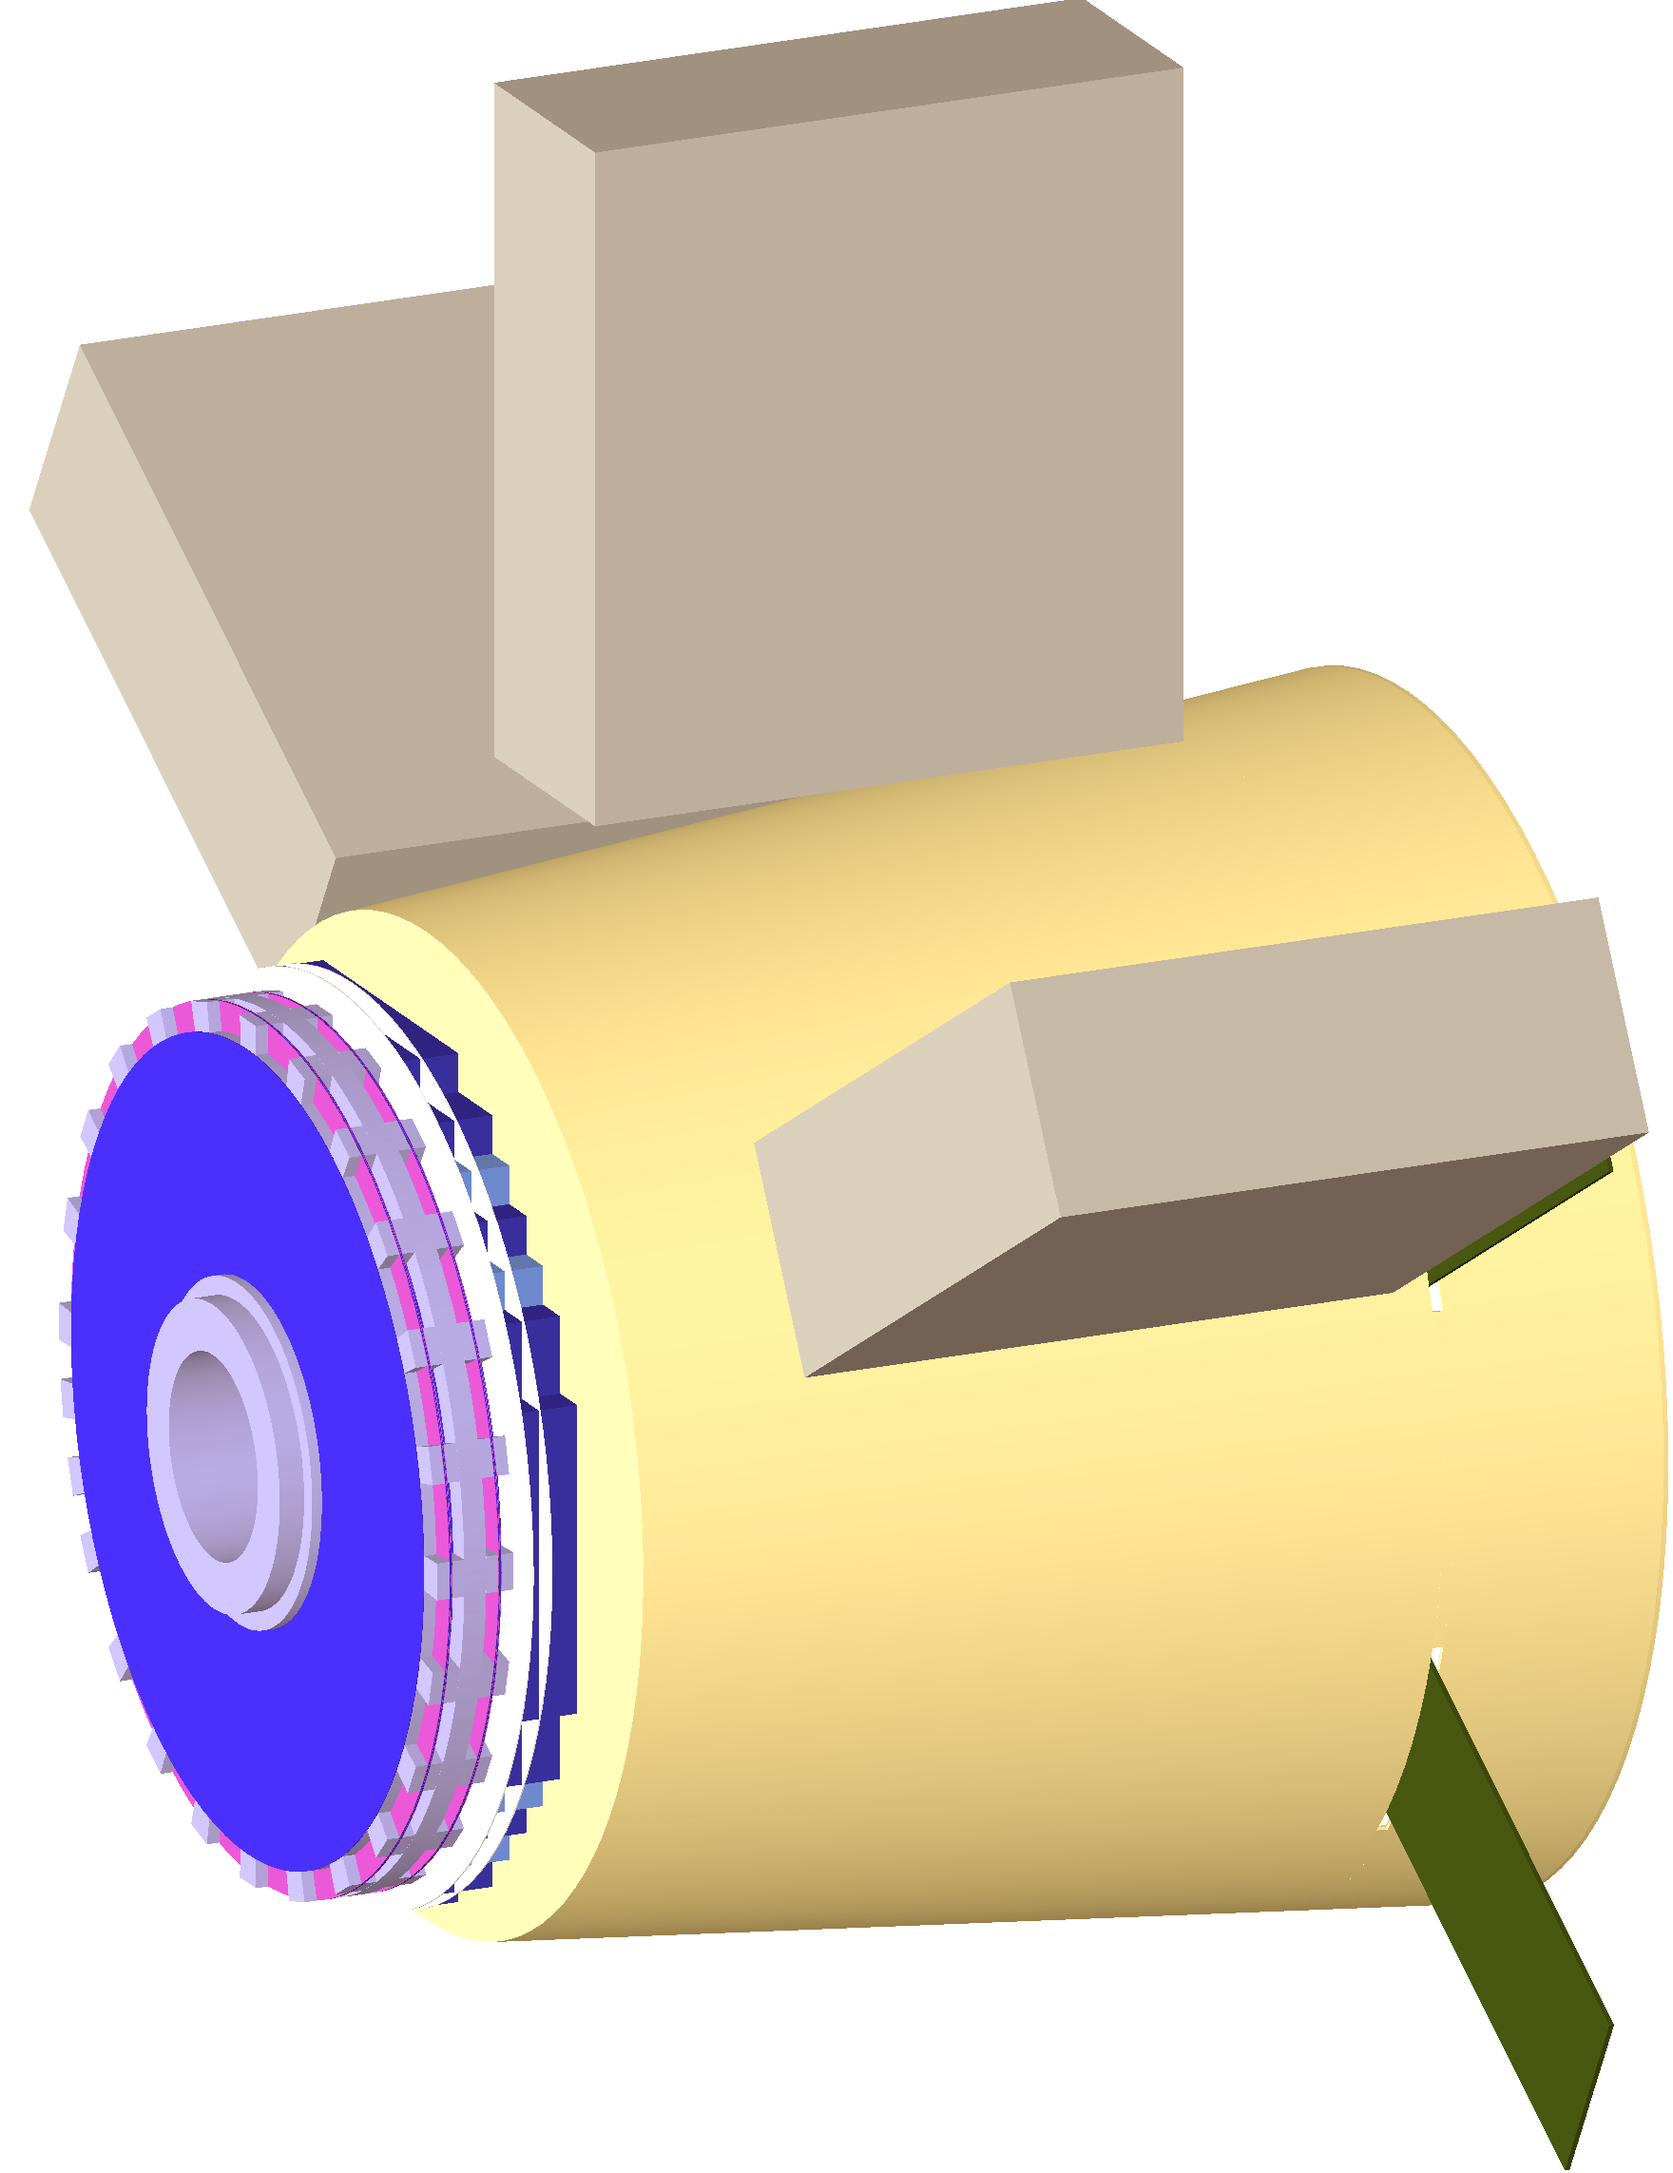
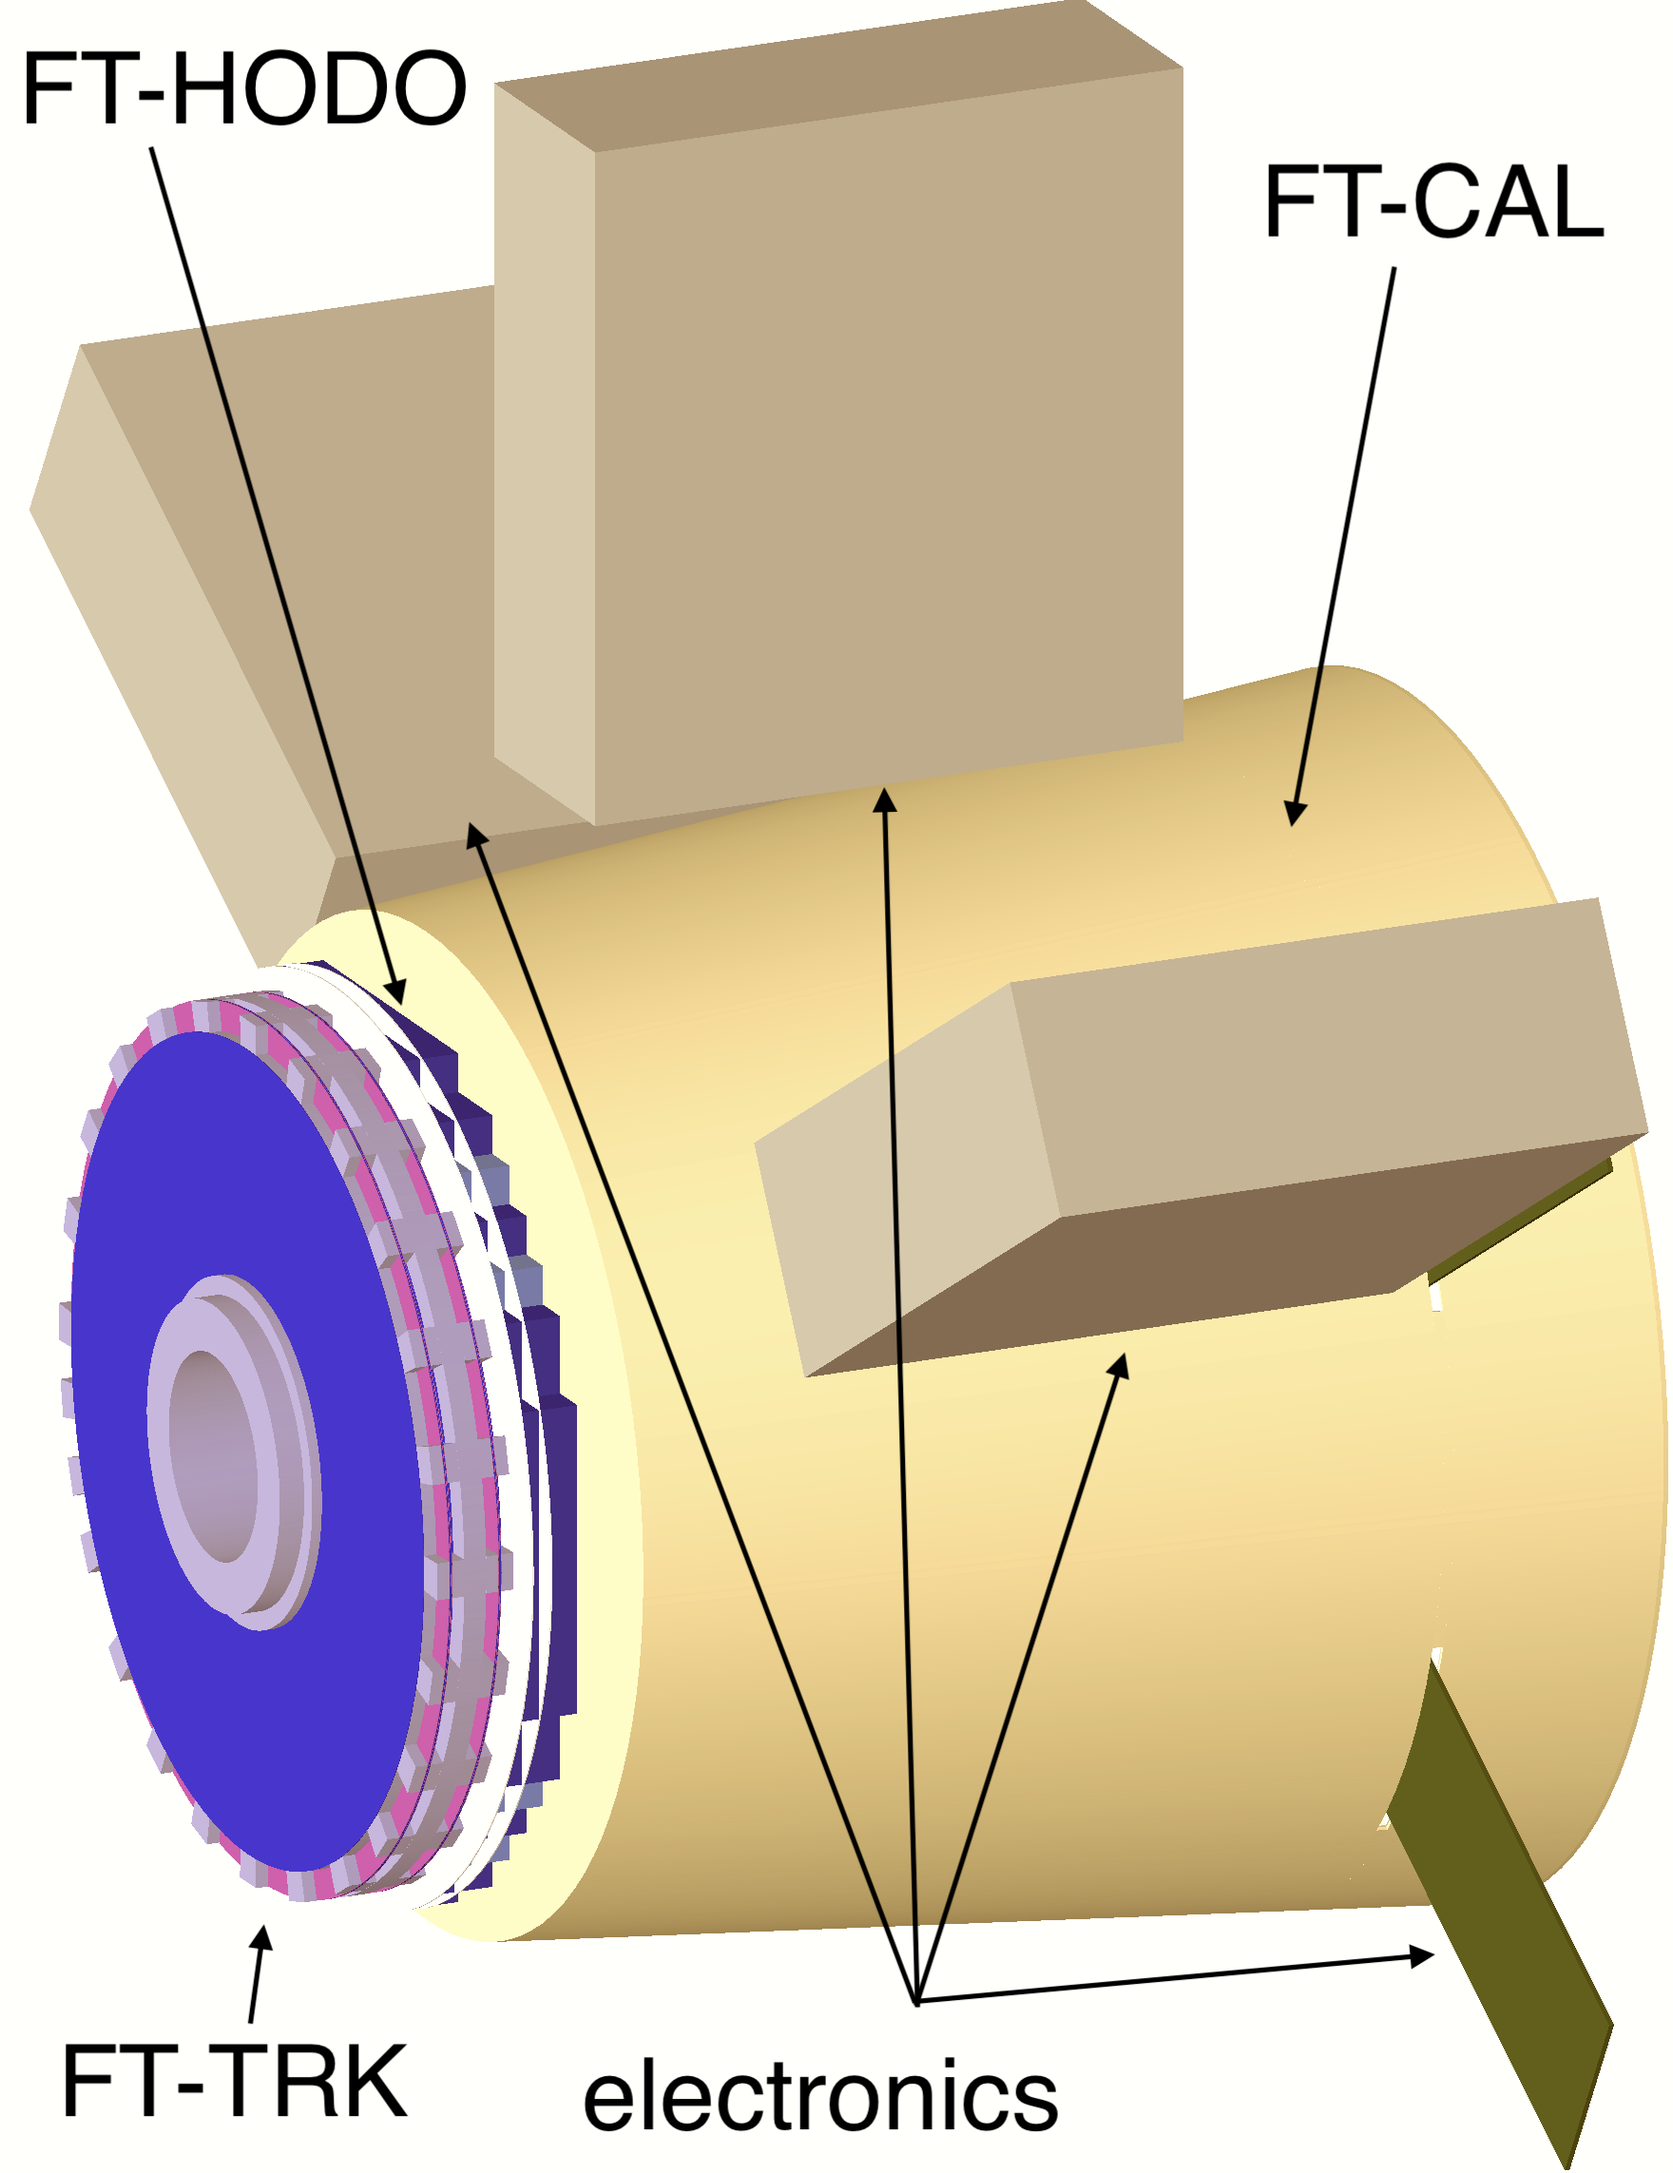
ft pics and text corrections

diff --git a/simulations/ft.tex b/simulations/ft.tex
@@ -6,46 +6,50 @@
 The FT consists of three subsystems:
 
 \begin{itemize}
-	\item a micromegas tracker (FT-TRK)
-	\item a hodoscope (FT-HODO)
- 	\item a calorimeter (FT-CAL)
+	\item a micromegas tracker (FT-TRK);
+	\item a hodoscope (FT-HODO);
+ 	\item a calorimeter (FT-CAL).
 \end{itemize}
 
-The three structures are implemented in GEMC using the native perl API script, except for the inner shield (see beamline),
-which comes from the CAD engineering mode.
+The three subsystems are implemented in GEMC using the native perl API script, except for the inner shield (see Section \ref{sec:beamline}),
+which comes from the CAD engineering model.
 The FT geometry is shown in \F{ftGeometry}.
 
 \subsubsection{Digitization}
 
-\begin{figure}[h]
+\begin{figure}
 	\centering
 	\includegraphics[width=0.99\columnwidth,keepaspectratio]{img/ftGeometry.png}
-	\caption{The three detectors in the FT geometry implementation in GEMC.
-             The disks form the micromegas tracker (FT-TRK). The hodoscope (FT-HODO) crystals are the boxes just behind the tracker,
-			 while the calorimeter (FT-CAL) is encompassed in the cone. The volumes surrounding (FT-CAL) contain the electronics.}
+	\includegraphics[width=0.99\columnwidth,keepaspectratio]{img/ftDetails.png}
+	\caption{Top: the FT detector implementation in GEMC. The boxes surrounding FT-CAL contain the electronics.
+			 Bottom: details of the the three subsystems implementation. As seen by the beam (impinging from the left):
+             the disks form the FT-TRK; the FT-HODO scintillators just behind the tracker;
+			 and the FT-CAL crystals. }
 	\label{fig:ftGeometry}
 \end{figure}
 
-For FTCal hits, the energy deposited is converted first to the charge produced at the end of the electronics chain composed
-by the photosensor (APD) and pre-amplifier, and then to ADC.
+The FT-TRK digitization provides the ADC value calculated using the total energy deposited (after hit sharing).
+There is no timing information in the FT-TRK output.
+
+For FT-CAL hits, the energy deposited is converted first to the charge produced at the end of the electronics chain composed
+by an avalanche photodiode (APD) and pre-amplifier, and then to an ADC.
 The first conversion is based on the measured charge for cosmic rays that deposit a known energy in the crystals,
 while the second conversion is based on the FADC conversion factor. A smearing on the final ADC values is added,
 accounting for the Poisson distribution of photo-electrons produced by the photosensor, the Gaussian noise of the
-photosensor and of the preamplifier. All parameters, the number of photo-electrons per MeV of energy deposited,
+photosensor, and of the preamplifier. All parameters, the number of photo-electrons per MeV of energy deposited,
 the RMS width of the APD noise, and of the preamplifier input noise, have been tuned to the experimental data.
 
-The same approach is adopted to process FTHodo hits, in which the deposited energy is first converted to charge and then to ADC.
+The same approach is adopted to process FT-HODO hits, in which the deposited energy is first converted to charge and then to ADC.
 The smearing in this case accounts only for the Poisson distribution of the measured number of photo-electrons,
 which dominates over other sources because of the relatively small number of photo-electrons per MeV of energy deposition.
 
-The TDC of FTCal hits is computed from the time of the energy deposition, accounting for the speed of the scintillation light in
+The TDC of FT-CAL hits is computed from the time of the energy deposition, accounting for the speed of the scintillation light in
 the crystal and the distance to the photosensor, assuming a known time-to-TDC conversion factor. A Gaussian smearing on the
-resulting TDC is added based on a fixed RMS resoloution derived from the experimental measurements.
+resulting TDC is added based on a fixed RMS resolution derived from the experimental measurements.
 
-Similarly, the TDC of FTHodo hits is derived from the time of a given energy deposition, adding a fixed offset before the
+Similarly, the TDC of FT-HODO hits is derived from the time of a given energy deposition, adding a fixed offset before the
 conversion from time to TDC and a Gaussian smearing. As in previous cases, all relevant parameters have been tuned to the
 observed detector response.
-
 The digitized output bank variables are summarized in Table \ref{tab:ftBank}
 
 \begin{table}[h]
@@ -67,7 +71,7 @@ The digitized output bank variables are summarized in Table \ref{tab:ftBank}
                           layer  &      layer      \\
                       component  &  component      \\
                             ADC  &        ADC      \\
-                            tdc  &        TDC      \\
+                            TDC  &        TDC      \\
 			\hline
 								 & Calorimeter     \\
 			\hline
@@ -75,11 +79,11 @@ The digitized output bank variables are summarized in Table \ref{tab:ftBank}
 				   	      layer  &      layer      \\
 					  component  &  component      \\
 							ADC  &        ADC      \\
-							tdc  &        TDC      \\
+							TDC  &        TDC      \\
 			\hline \hline
 		\end{tabular}
 	\end{center}
-	\caption{The digitized FT banks for the tracker, hodoscope and calorimeter}\label{tab:ftBank}
+	\caption{The digitized FT banks for the tracker, hodoscope, and calorimeter}\label{tab:ftBank}
 \end{table}
 
 \noindent The time window  of the Tracker is set to to 132 ns: all Geant4 steps within the same strip and time window are collected in one hit.

diff --git a/simulations/magnets.tex b/simulations/magnets.tex
@@ -35,7 +35,7 @@ The torus geometry is shown in \F{torus}.
 \end{figure}
 
 
-\subsubsection{Magnetic Field Maps} \label{clas12FieldMaps}
+\subsubsection{Magnetic Field Maps} \label{sec:clas12FieldMaps}
 
 The CLAS12 torus and solenoid field maps are imported into the simulation using ascii files. Both fields can be scaled by an arbitrary factor.
 Both fields are defined in the Hall-B coordinate system and both can be shifted and tilted by additional delta amounts.

diff --git a/simulations/overview.tex b/simulations/overview.tex
@@ -162,7 +162,7 @@ command line options or configuration files at run time:
 		  a variation (choice of order and/or precision) of Runge Kutta \cite{rungeKutta} methods
 \end{itemize}
 
-The implementation of the CLAS12 magnetic fields is described in Section \ref{clas12FieldMaps}.
+The implementation of the CLAS12 magnetic fields is described in Section \ref{sec:clas12FieldMaps}.
 
 \subsection{Event Time Window and Hit Definition}
 

diff --git a/simulations/beamline.tex b/simulations/beamline.tex
@@ -1,4 +1,4 @@
-\subsection{Beamline}
+\subsection{Beamline} \label{sec:beamline}
 
 The CLAS12 beamline downstream of the target is made up of several pieces, each discussed below. The positioning and composition of the beamline
 depends on the run configuration, which can be:
